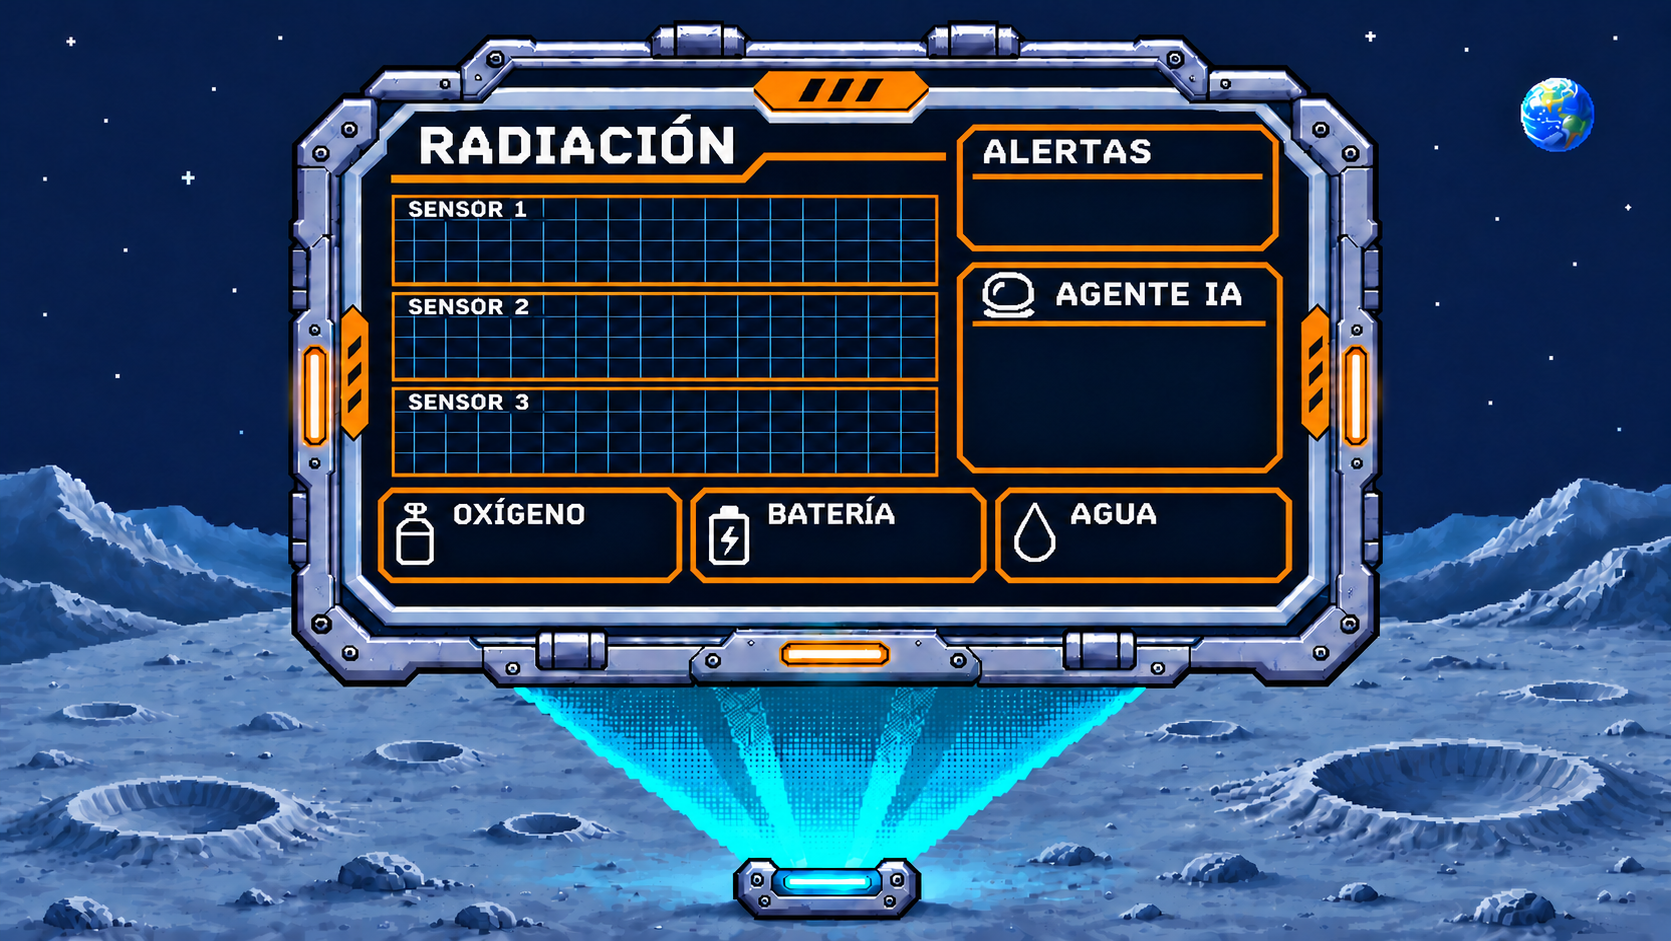
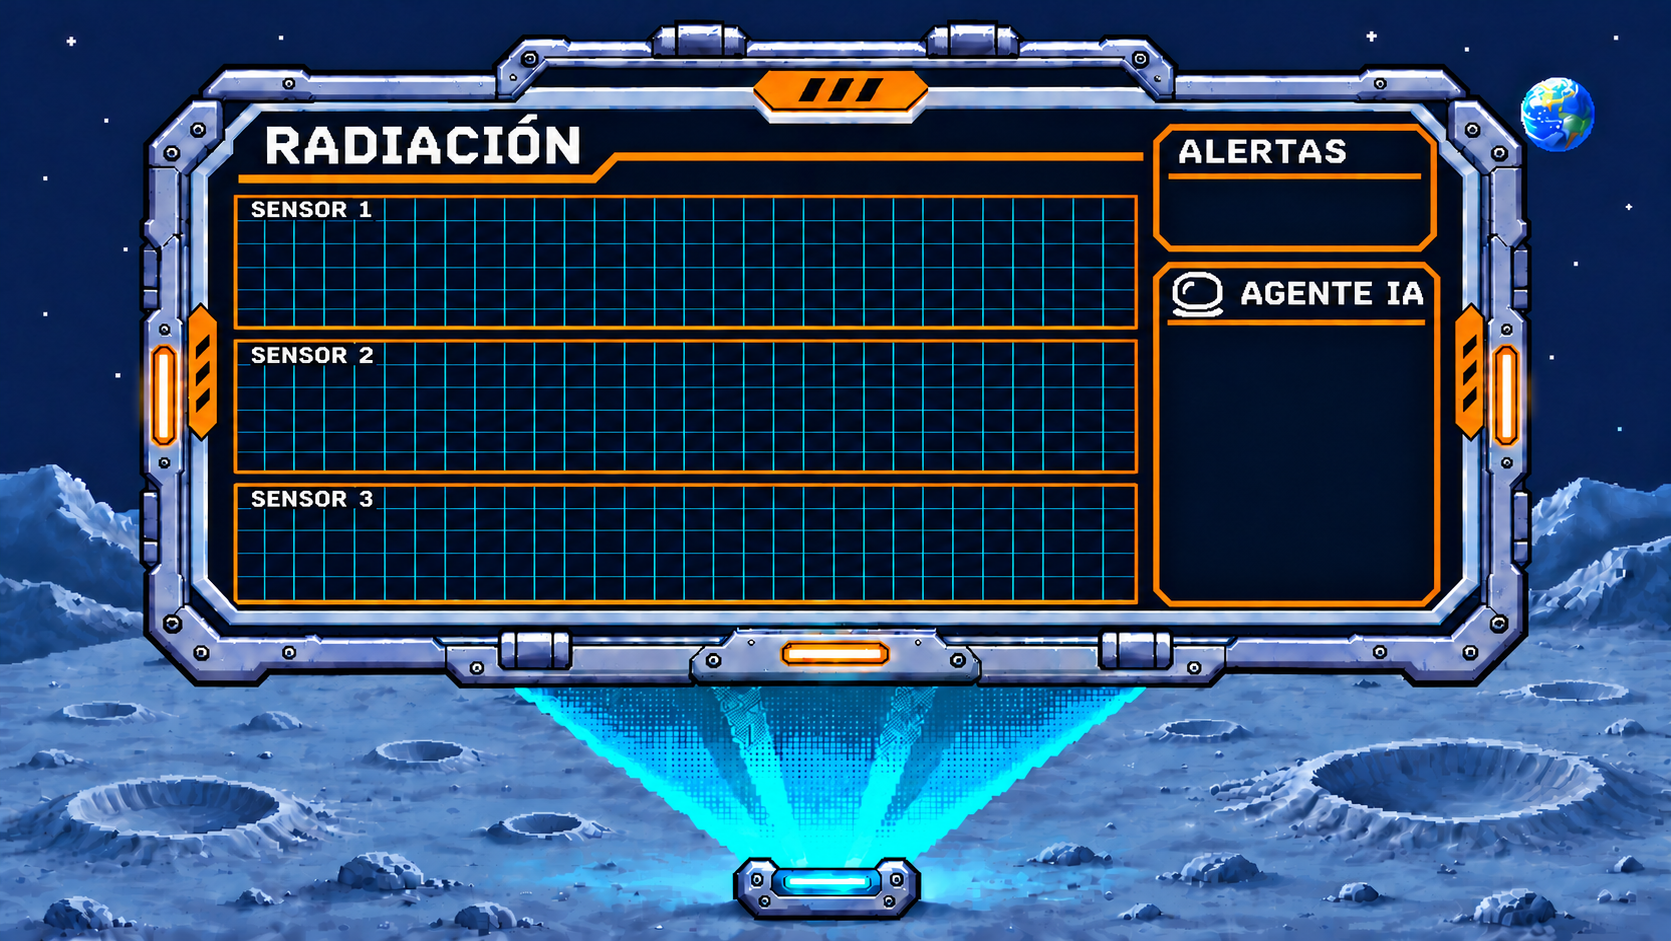
reparar

diff --git a/index.html b/index.html
@@ -3,7 +3,7 @@
 <head>
   <meta charset="UTF-8" />
   <meta name="viewport" content="width=device-width, initial-scale=1.0" />
-  <title>Motor 2D - Prototipo</title>
+  <title>Entropía Cero — Base lunar</title>
   <style>
     @font-face {
       font-family: 'Press Start 2P';
@@ -16,8 +16,8 @@
       width: 100%;
       height: 100%;
       overflow: hidden;
-      background: #000;
-      color: #eee;
+      background: #050c14;
+      color: #e8f1f1;
       font-family: system-ui, sans-serif;
     }
     #game-root {
@@ -27,13 +27,13 @@
       display: flex;
       align-items: center;
       justify-content: center;
-      background: #000;
+      background: #050c14;
     }
-    canvas {
+    #game {
       image-rendering: pixelated;
       image-rendering: crisp-edges;
       display: block;
-      background: #000;
+      background: #050c14;
     }
     #loading {
       position: absolute;
@@ -41,9 +41,9 @@
       display: flex;
       align-items: center;
       justify-content: center;
-      background: #000;
-      font-size: 16px;
-      letter-spacing: 1px;
+      background: #050c14;
+      font: 10px/1.8 'Press Start 2P', monospace;
+      text-align: center;
       pointer-events: none;
     }
     #loading.hidden { display: none; }
@@ -52,10 +52,9 @@
 <body>
   <div id="game-root">
     <canvas id="game"></canvas>
-    <video id="introVideo" autoplay muted playsinline style="position:absolute;inset:0;width:100%;height:100%;object-fit:contain;background:#000;display:none;z-index:10;"></video>
-    <div id="loading">Cargando...</div>
+    <video id="introVideo" autoplay muted playsinline style="position:absolute;inset:0;width:100%;height:100%;object-fit:contain;background:#050c14;display:none;z-index:10;"></video>
+    <div id="loading" role="status">Cargando base lunar…</div>
   </div>
   <script type="module" src="./src/main.js"></script>
-  <script type="module" src="./src/events/liveEventPanel.js"></script>
 </body>
 </html>

diff --git a/README.md b/README.md
@@ -72,10 +72,13 @@ src/
 
 ## Probar alertas DONKI localmente
 
-Desde esta carpeta inicia `python -m http.server 8765` y abre
-http://localhost:8765/. No abras `index.html` mediante `file://`: los módulos
-JavaScript y los JSON necesitan un servidor HTTP. Abre **Clima espacial · NASA
-DONKI** y pulsa **Probar alerta archivada** para ver el aviso de prueba.
+Desde esta carpeta inicia `python -m http.server 8765`. No abras HTML mediante
+`file://`: los módulos JavaScript y los JSON necesitan un servidor HTTP.
+El `index.html` principal muestra **solo el juego base**, sin paneles de prueba.
+Para probar el simulador y visor, abre
+http://localhost:8765/pruebas/MonitorVisor/ . El panel experimental
+`src/events/liveEventPanel.js` conserva el código de consulta DONKI, pero ya
+no se monta en el index principal.
 
 `src/events/donkiLive.js` consulta la API pública de CCMC para FLR, CME, SEP y
 GST sin clave. `src/events/liveEventPanel.js` actualiza el panel cada cinco
